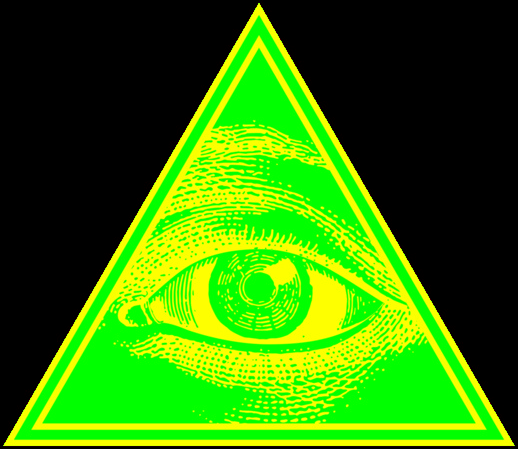
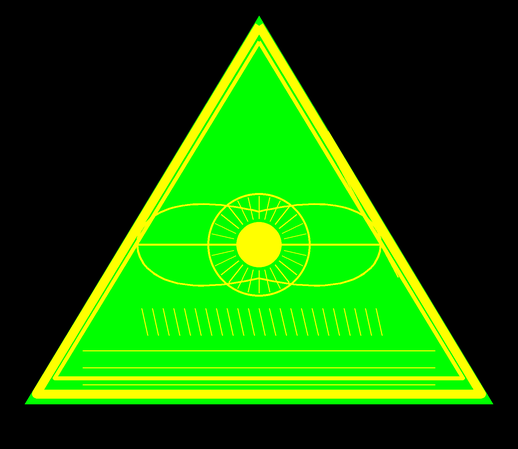
Add MIT licence, README/credits updates and asset provenance fixes
Add LICENSE and package metadata, link the holofx collection, and fix two
asset-provenance issues: replace the eye-emblem with original artwork and
rename the OFL subset off the reserved font name (Yesteryear -> Ace Script).

diff --git a/demos/ace-of-spades/main.ts b/demos/ace-of-spades/main.ts
@@ -21,14 +21,15 @@ import { OrbitCamera } from '../../src/scene/orbit-camera';
 import { TextSdfGenerator, type TextSdf } from '../../src/sdf/text-sdf';
 import aceWgsl from './ace.wgsl?raw';
 import emblemUrl from './eye-emblem.png';
-import scriptUrl from './fonts/yesteryear-latin.woff2';
+import scriptUrl from './fonts/ace-script-latin.woff2';
 
 const CARD_HALF: [number, number] = [0.63, 0.88];
 const FOV = (32 * Math.PI) / 180;
 // Playing-card indices are a condensed Roman; a regular serif squeezed horizontally reads the same.
 const SERIF = '"Times New Roman", Times, "Liberation Serif", "Nimbus Roman", Georgia, serif';
-// The mark is set in Yesteryear (SIL OFL, bundled), a slanted brush script in the spirit of the Supra badge.
-const SCRIPT = 'Yesteryear, "Brush Script MT", cursive';
+// The mark is set in a subset of Yesteryear (SIL OFL, bundled). The subset is a Modified
+// Version, so the OFL reserved name is dropped: the family is renamed "Ace Script".
+const SCRIPT = '"Ace Script", "Brush Script MT", cursive';
 // Exact dark indigo: the mark is composited after tonemapping (see `mark_ink` in ace.wgsl).
 const MARK_HEX = 0x2e1065;
 const srgbToLinear = (c: number) => (c <= 0.04045 ? c / 12.92 : ((c + 0.055) / 1.055) ** 2.4);
@@ -79,9 +80,9 @@ async function main(): Promise<void> {
   try {
     // Loaded from bytes so it works under strict font-src policies too.
     const script = await (await fetch(scriptUrl)).arrayBuffer();
-    document.fonts.add(await new FontFace('Yesteryear', script).load());
+    document.fonts.add(await new FontFace('Ace Script', script).load());
   } catch (err) {
-    console.warn('Yesteryear failed to load; using a fallback script.', err);
+    console.warn('Ace Script failed to load; using a fallback script.', err);
   }
   const [indexText, markText, emblemImage] = await Promise.all([
     textGen.generate({ text: 'A', family: SERIF, weight: 400, size: 220 }),

diff --git a/public/assets/CREDITS.md b/public/assets/CREDITS.md
@@ -6,3 +6,16 @@ All third-party assets in this directory are public domain (CC0 1.0).
 | --- | --- | --- | --- |
 | `models/lantern.glb` | [Lantern](https://github.com/KhronosGroup/glTF-Sample-Assets/tree/main/Models/Lantern) from the Khronos glTF Sample Assets (Microsoft) | [CC0 1.0](https://creativecommons.org/publicdomain/zero/1.0/) | Textures resized 2048→1024 and re-encoded PNG→JPEG (q90) with `gltf-transform resize` + `gltf-transform jpeg` (9.6 MB → 1.0 MB). |
 | `hdri/studio_small_09_1k.hdr` | [Studio Small 09](https://polyhaven.com/a/studio_small_09) from Poly Haven | [CC0 1.0](https://polyhaven.com/license) | None (1k Radiance HDR). |
+
+## Ace of Spades demo
+
+- `demos/ace-of-spades/eye-emblem.png` — an original Eye-of-Providence engraving
+  authored for this repository. It replaces an earlier image whose provenance was
+  not recorded. The motif itself (an eye in a triangle with rays) is public domain.
+- `demos/ace-of-spades/fonts/ace-script-latin.woff2` — a Latin subset of **Yesteryear**
+  by Brian J. Bonislawsky (Astigmatic), used under the SIL Open Font License 1.1
+  (`fonts/OFL.txt`). A subset is a Modified Version under the OFL, so the reserved
+  font name "Yesteryear" has been dropped: the name table now reads "Ace Script"
+  (the code loads the family under that name). The original copyright notice is
+  retained in the font.
+

diff --git a/README.md b/README.md
@@ -2,6 +2,11 @@
 
 An experimental gallery of practical **WebGPU lighting and shadow** effects for building aesthetic websites. Each experiment is live and tweakable, with notes on how it works and what it costs.
 
+Part of the [holofx collection](https://github.com/s4njee/holofx) alongside
+[hologpu](https://github.com/s4njee/hologpu),
+[firetemple](https://github.com/s4njee/firetemple) and
+[watertemple](https://github.com/s4njee/watertemple).
+
 See **[plan.md](./plan.md)** for the roadmap (epics, stories, sequencing).
 
 ## Experiments
@@ -57,3 +62,8 @@ scripts/smoke.mjs           headless render test
 scripts/capture.mjs         screenshot arbitrary gallery states
 scripts/new-experiment.mjs  experiment generator
 ```
+
+## Licence
+
+MIT. See [LICENSE](./LICENSE). Third-party assets are credited in
+[public/assets/CREDITS.md](./public/assets/CREDITS.md).

diff --git a/plan.md b/plan.md
@@ -25,6 +25,8 @@ This document is the roadmap. It is organised as **epics → stories**, each sto
 - WebGL fallbacks for every experiment. A static poster/video fallback is enough (see E8-S6).
 - Photoreal offline-quality GI. We care about believable and fast.
 
+Publication and a shared effect contract are now planned rather than ruled out; see M3 and M4 in the [holofx backlog](../holofx/backlog.md).
+
 ## 2. Technical decisions
 
 | Area | Decision | Why |
